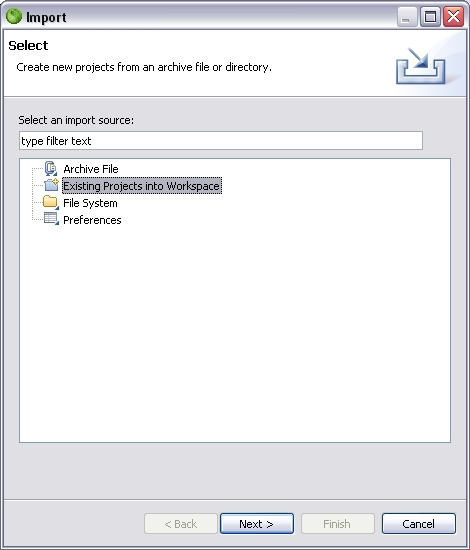
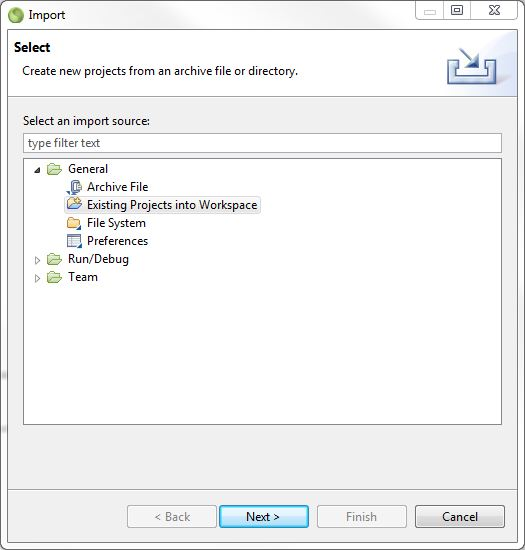
Updated some old images and information.

diff --git a/com.eco.bio7/html/maintopic.html b/com.eco.bio7/html/maintopic.html
@@ -26,13 +26,13 @@
 
 
 
-Please download the Bio7 Guide and examples from the following link.<br>
+Please consult the Bio7 guide and download the examples from the following link:<br><br>
 
 
 <a href="http://bio7.org">http://bio7.org</a><br>
 
 
-<br>
+<br><br>
 
 <span style="font-weight: bold; text-decoration: underline;">Examples:</span><br>
 
@@ -46,19 +46,19 @@ Please download the Bio7 Guide and examples from the following link.<br>
 import the examples from the <i>Examples.zip</i> file.<br>
 <b>File-&gt;Import-&gt;Existing
 Projects into Workspace&nbsp;</b></p>
+<br><br>
 
+<p style="margin-bottom: 0cm;"><img style="height: 550px; width: 525px;" alt="import" src="pics/pic1.jpg"></p>
 
-<p style="margin-bottom: 0cm;"><img style="height: 550px; width: 470px;" alt="import" src="pics/pic1.jpg"></p>
-
-
-<p style="margin-bottom: 0cm;">Select the archive file <i>Examples.zip</i>
-and the two projects <i>Bio7_Examples</i> and <i>Ecological
-Modelling. </i><span style="font-style: normal;">Press Finish to
+<br><br>
+<p style="margin-bottom: 0cm;">Select the archive file <b>Examples.zip</b>
+and the two projects <b>Bio7_Java_Examples</b> and <b>Bio7_Script_Examples. </b><span style="font-style: normal;">Press Finish to
 import them into Bio7</span><i> </i><span style="font-style: normal;">(they
 will imported to the workspace location).</span></p>
+<br><br>
 
 
-<p style="margin-bottom: 0cm;"><span style="font-style: normal;"><img style="width: 506px; height: 550px;" alt="import" src="pics/pic2.jpg"></span></p>
+<p style="margin-bottom: 0cm;"><span style="font-style: normal;"><img style="width: 525px; height: 679px;" alt="import" src="pics/pic2.jpg"></span></p>
 
 
 <p style="margin-bottom: 0cm;">

diff --git a/com.eco.bio7/content/shared.css b/com.eco.bio7/content/shared.css
@@ -8,10 +8,10 @@ html {
 
 	
 body {	
-	margin-left:14px;
+	margin-left:12px;
 	margin-top:10px;
 	font-family:Tahoma;
-	font-size: 12px;
+	font-size: 14px;
 	color:#000000;
 	background-image:url("./titlebanner.gif");
 	background-repeat: repeat-x;
@@ -21,17 +21,20 @@ h1 {
 	text-align:left;
 	font-size: 16pt;
 	font-weight:normal;
-	color:#E5E5E5;
+	color:#000000;
 	} 
 
 h4 {
-	color:#787878;
+	text-align:left;
+	font-size: 10pt;
+	font-weight:normal;
+	color:#000000;
 	}	
 	
 a {
 	display:block;
 	font-family:Tahoma;
-	font-size: 12px;
+	font-size: 14px;
 	color:#000000;
 	font-weight:normal;
 	text-decoration:none;
@@ -39,7 +42,7 @@ a {
 	}
 	
 p {
-	padding-left:14px;
+	padding-left:10px;
 	}
 	
 

diff --git a/com.eco.bio7.image/src/ij/gui/GenericDialog.java b/com.eco.bio7.image/src/ij/gui/GenericDialog.java
@@ -45,7 +45,7 @@ import ij.macro.*;
 * to spaces when the dialog is displayed. For example, change the checkbox labels
 * "Show Quality" and "Show Residue" to "Show_Quality" and "Show_Residue".
 */
-public class GenericDialog extends Dialog implements ActionListener, TextListener, 
+public class GenericDialog extends JDialog implements ActionListener, TextListener, 
 FocusListener, ItemListener, KeyListener, AdjustmentListener, WindowListener {
 
 	public static final int MAX_SLIDERS = 25;

diff --git a/com.eco.bio7/src/com/eco/bio7/image/r/IJTranserResultsTable.java b/com.eco.bio7/src/com/eco/bio7/image/r/IJTranserResultsTable.java
@@ -308,6 +308,11 @@ public class IJTranserResultsTable {
 
 	}
 	
+	/** 
+	 * A method to transfer results from a particle analysis in ImageJ.
+	 * @param con a Rserve connection
+	 * @param macro an optional macro
+	 */
 	public static void runParticleAnalysis(RConnection con, String macro) {
 		if (macro == null) {
 			IJ.runMacro("run(\"Analyze Particles...\")");

diff --git a/com.eco.bio7.image_copy/src/ij/gui/GenericDialog.java b/com.eco.bio7.image_copy/src/ij/gui/GenericDialog.java
@@ -159,6 +159,7 @@ public class GenericDialog extends JDialog implements ActionListener, TextListen
 	 */
 	public void addNumericField(String label, double defaultValue, int digits) {
 		addNumericField(label, defaultValue, digits, 6, null);
+		
 	}
 
 	/**
